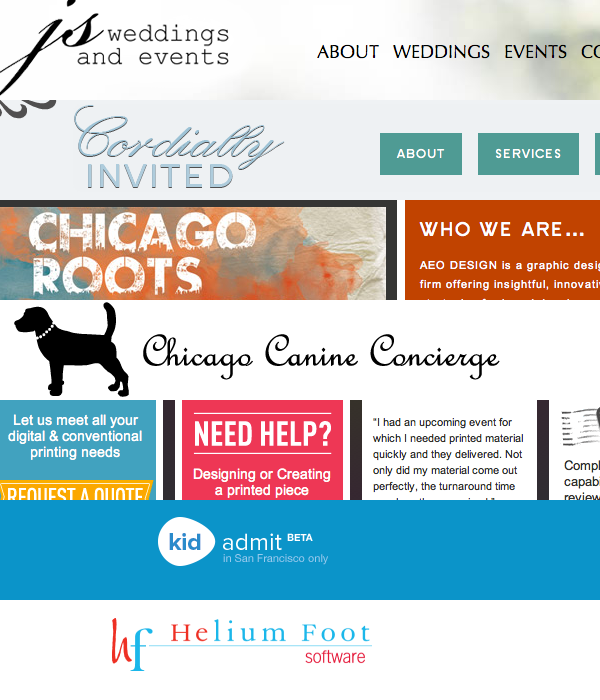
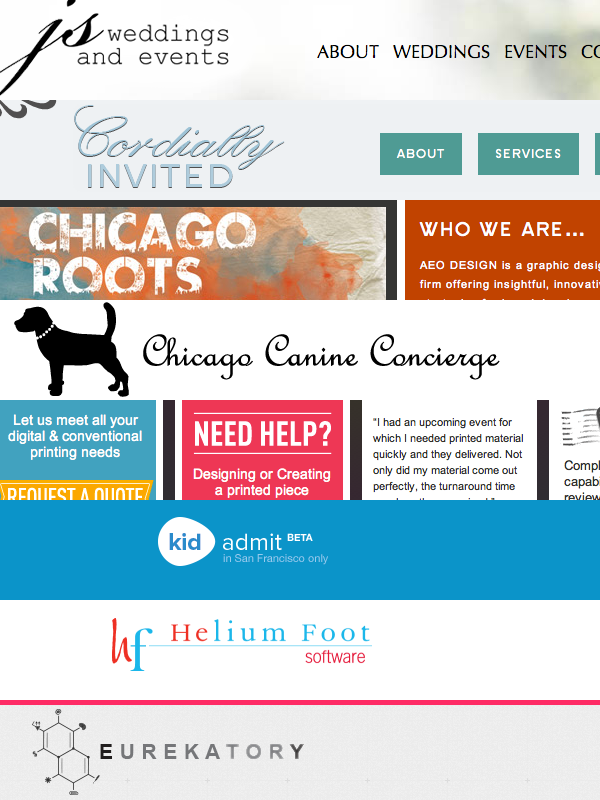
Added new work samples, removed behance, added link to github. Updated images for retina.

diff --git a/eurekatory.html b/eurekatory.html
@@ -1,0 +1,73 @@
+<!DOCTYPE html>
+<html lang="en">
+
+<head>
+<meta http-equiv="Content-Type" content="text/html; charset=utf-8" />
+<meta name="viewport" content="width=device-width, initial-scale=1.0, maximum-scale=1.0" />
+<link rel="icon" type="image/x-icon" href="/favicon.ico" />
+<title>Volovar.com / AEO Design</title>
+
+<link rel="stylesheet" type="text/css" media="screen, projection" href="/css/main.css" />
+<script type="text/javascript" src="http://use.typekit.com/pla7tgp.js"></script>
+<script type="text/javascript">try{Typekit.load();}catch(e){}</script>
+<script type="text/javascript">
+
+  var _gaq = _gaq || [];
+  _gaq.push(['_setAccount', 'UA-8392296-1']);
+  _gaq.push(['_trackPageview']);
+
+  (function() {
+    var ga = document.createElement('script'); ga.type = 'text/javascript'; ga.async = true;
+    ga.src = ('https:' == document.location.protocol ? 'https://ssl' : 'http://www') + '.google-analytics.com/ga.js';
+    var s = document.getElementsByTagName('script')[0]; s.parentNode.insertBefore(ga, s);
+  })();
+
+</script>
+</head>
+
+<body>
+	<div class="wrap">
+		<div class="wrap-inner">
+			<div class="header group">
+                <a class="logo" href="/">
+                    <img src="/img/v-logo-lores.gif" alt="volovar.com" />
+                    <span class="logo-title">volovar.com</span>
+                </a>
+
+				<div class="nav">
+					<ul class="group">
+						<li><a href="/">Home</a></li>
+						<li><a class="active" href="/work.html">Work</a></li>
+						<li><a href="/about.html">About</a></li>
+					</ul>
+				</div><!--/nav-->
+			</div><!--/header-->
+			<div class="headline">
+				<h1>Helium Foot</h1>
+				<h2><a href="http://eurekatory.com/">www.eurekatory.com,</a> <em>November 2012</em></h2>
+			</div><!--/headline-->
+			<div class="content">
+				<div class="full">
+					<img src="/img/eurekatory.jpg" alt="eurekatory sample" />
+					<ul class="details group">
+						<li>HTML, CSS</li>
+                        <li>Built from the ground up to be responsive. Client requested that the site be visually simple, which lent itself to a responsive design.</li>
+						<li><a href="/work.html">&#8592; Return to Work</a></li>
+					</ul>
+				</div>
+			</div><!--/content-->
+			
+			<div class="footer group">
+				<p>Copyright &#169; 2013 Michael Volovar</p>
+				<ul class="small-links group">
+                    <li><a class="dribbble" href="http://dribbble.com/volovar"><span>Dribbble!</span></a></li>
+                    <li><a class="twitter" href="https://twitter.com/#!/volovar"><span>Follow me on Twitter</span></a></li>
+					<li><a class="zerply" href="http://zerply.com/volovar/"><span>Zerply</span></a></li>
+					<li><a class="linkedin" href="http://www.linkedin.com/pub/michael-volovar/20/155/7b5"><span>LinkedIn</span></a></li>
+				</ul>
+			</div><!--/footer-->
+		</div>
+	</div><!--/wrap-->
+</body>
+<!--|/.-->
+</html>

diff --git a/work.html b/work.html
@@ -67,6 +67,13 @@
                             </a>
                         </li>
 
+                        <li>
+                            <a class="highlight-btn eurekatory" href="/eurekatory.html">
+                                <img src="/img/eurekatory-btn.png" alt="link image eurekatory" />
+                                <span>Eurekatory</span>
+                            </a>
+                        </li>
+
 						<li>
                             <a class="highlight-btn js" href="/js-weddings.html">
                                 <img src="/img/js-weddings-btn.jpg" alt="Link image js weddings" />
@@ -103,24 +110,23 @@
 						</li>
 
                         <li class="placeholder"></li>
-                        <li class="placeholder"></li>
                     </ul>
 				</div>
 				<div class="full">
 					<h3>External storage facilities</h3>
 					<ul class="link-list external-links">
-						<li>
-                            <a class="mid-btn vimeo" href="http://vimeo.com/volovar"><span class="mid-btn-icon">Vimeo</span></a>
-						</li>
+                        <li>
+                            <a class="mid-btn github" href="https://github.com/volovar"><span class="mid-btn-icon">Github</span></a>
+                        </li>
 						<li>
                             <a class="mid-btn fsl" href="http://fullstoplife.com/"><span class="mid-btn-icon">Full Stop Life</span></a>
 						</li>
 						<li>
                             <a class="mid-btn oddsends" href="http://volovar.tumblr.com"><span class="mid-btn-icon">Tumblr</span></a>
 						</li>
-						<li>
-                            <a class="mid-btn beh" href="http://www.behance.net/volovar"><span class="mid-btn-icon">Behance</span></a>
-						</li>
+                        <li>
+                            <a class="mid-btn vimeo" href="http://vimeo.com/volovar"><span class="mid-btn-icon">Vimeo</span></a>
+                        </li>
 					</ul>
 				</div>
 			</div>

diff --git a/css/main.css b/css/main.css
@@ -415,7 +415,7 @@ a:focus {
   border-radius: 50%;
   border: none;
   overflow: hidden;
-  background: #000000 url(img/link_images.png) no-repeat 0 0;
+  background: #000000 url("img/link-images.png") no-repeat 0 0;
   position: relative;
 }
 .link-list li .mid-btn .mid-btn-icon {
@@ -449,8 +449,8 @@ a:focus {
 .link-list li .mid-btn.oddsends {
   background-position: 0 -270px;
 }
-.link-list li .mid-btn.beh {
-  background-position: 0 -90px;
+.link-list li .mid-btn.github {
+  background-position: 0 -91px;
 }
 .link-list li .mid-btn.vimeo .mid-btn-icon {
   background-color: #1ab7ea;
@@ -745,6 +745,9 @@ a:focus {
   .link-list li .highlight-btn.kidadmit {
     background-position: -15px -515px;
   }
+  .link-list li .highlight-btn.eurekatory {
+    background-position: -15px -715px;
+  }
   .link-list li .highlight-btn.cordially {
     background-position: -15px -115px;
   }
@@ -786,8 +789,8 @@ a:focus {
     background-size: 60px;
   }
   .external-links li .mid-btn a {
-    background-image: url("img/link_images-2x.png");
-    background-size: 100%;
+    background-image: url("img/link-images-2x.png");
+    background-size: 90px;
   }
   .small-links li a {
     background-image: url("img/icons-2x.png");

diff --git a/index.html b/index.html
@@ -69,9 +69,9 @@
                         </li>
 
                         <li>
-                            <a class="highlight-btn js" href="/js-weddings.html">
-                                <img src="/img/js-weddings-btn.jpg" alt="Link image js" />
-                                <span>JS Weddings & Events</span>
+                            <a class="highlight-btn eurekatory" href="/eurekatory.html">
+                                <img src="/img/eurekatory-btn.png" alt="link image eurekatory" />
+                                <span>Eurekatory</span>
                             </a>
                         </li>
                     </ol>

diff --git a/css/media-queries.less b/css/media-queries.less
@@ -121,6 +121,10 @@
                 background-position: -15px -515px;
             }
 
+            &.eurekatory {
+                background-position: -15px -715px;
+            }
+
             &.cordially {
                 background-position: -15px -115px;
             }
@@ -172,8 +176,8 @@
         background-size: 60px;
     }
     .external-links li .mid-btn a {
-        background-image: url("img/link_images-2x.png");
-        background-size: 100%;
+        background-image: url("img/link-images-2x.png");
+        background-size: 90px;
     }
     .small-links li a {
         background-image: url("img/icons-2x.png");

diff --git a/css/main.less b/css/main.less
@@ -315,7 +315,7 @@ a {
             .border-radius(50%);
             border: none;
             overflow: hidden;
-            background: #000 url(img/link_images.png) no-repeat 0 0;
+            background: #000 url("img/link-images.png") no-repeat 0 0;
             position: relative;
 
             .mid-btn-icon {
@@ -351,8 +351,8 @@ a {
                 background-position: 0 -270px;
             }
 
-            &.beh {
-                background-position: 0 -90px;
+            &.github {
+                background-position: 0 -91px;
             }
 
             &.vimeo {

diff --git a/css/media-queries.css b/css/media-queries.css
@@ -1,5 +1,5 @@
-NameError: .border-radius is undefined in /Users/Michael/Development/volovarCom_update/css/media-queries.less:153:8
-152     .details {
-153         .border-radius(15px);
-154     }
+NameError: .border-radius is undefined in /Users/Michael/Development/volovarCom_update/css/media-queries.less:157:8
+156     .details {
+157         .border-radius(15px);
+158     }
 
